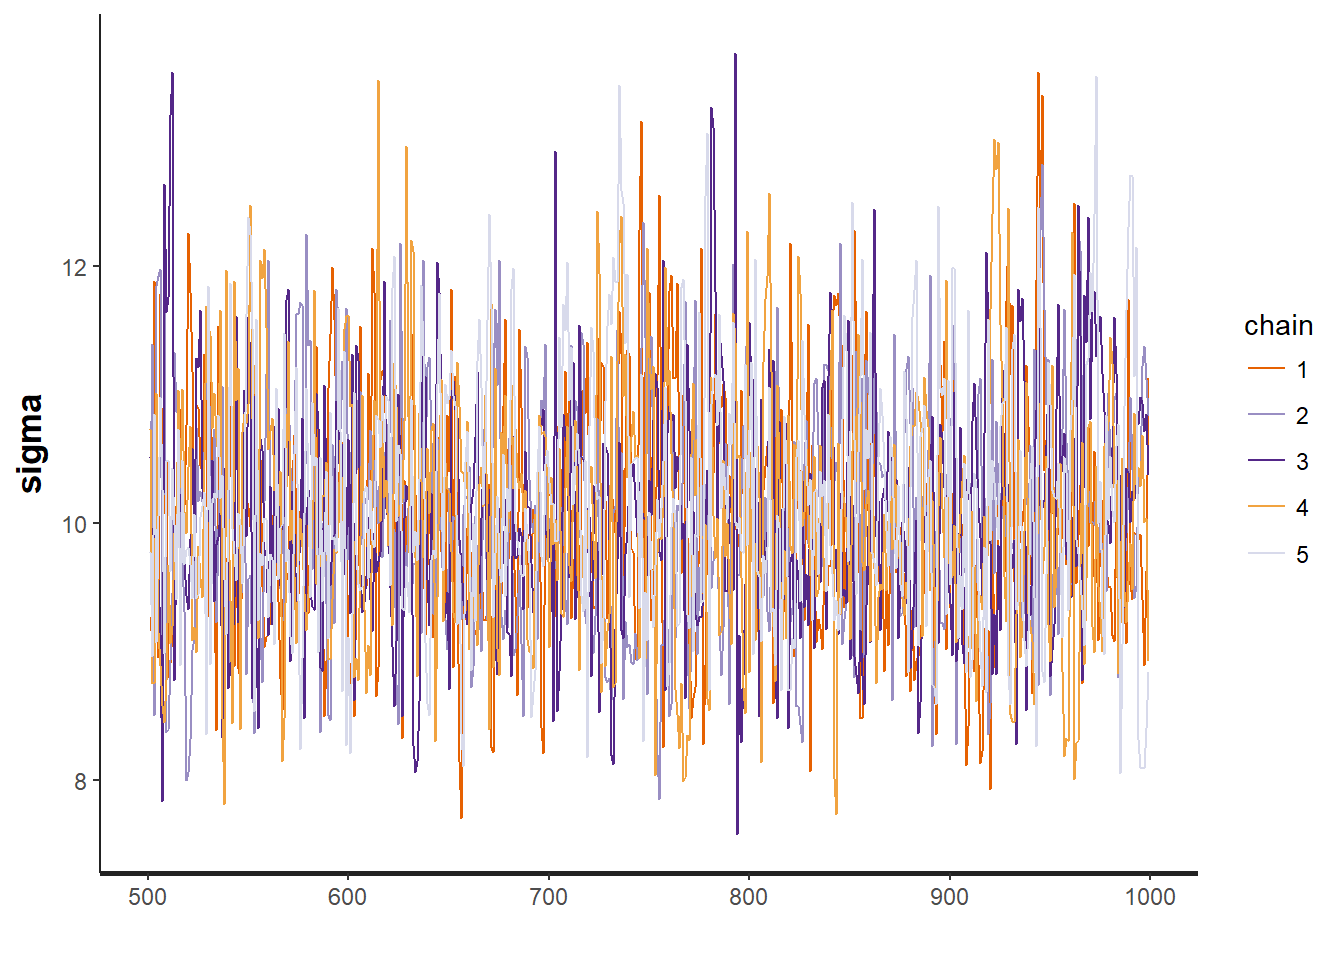
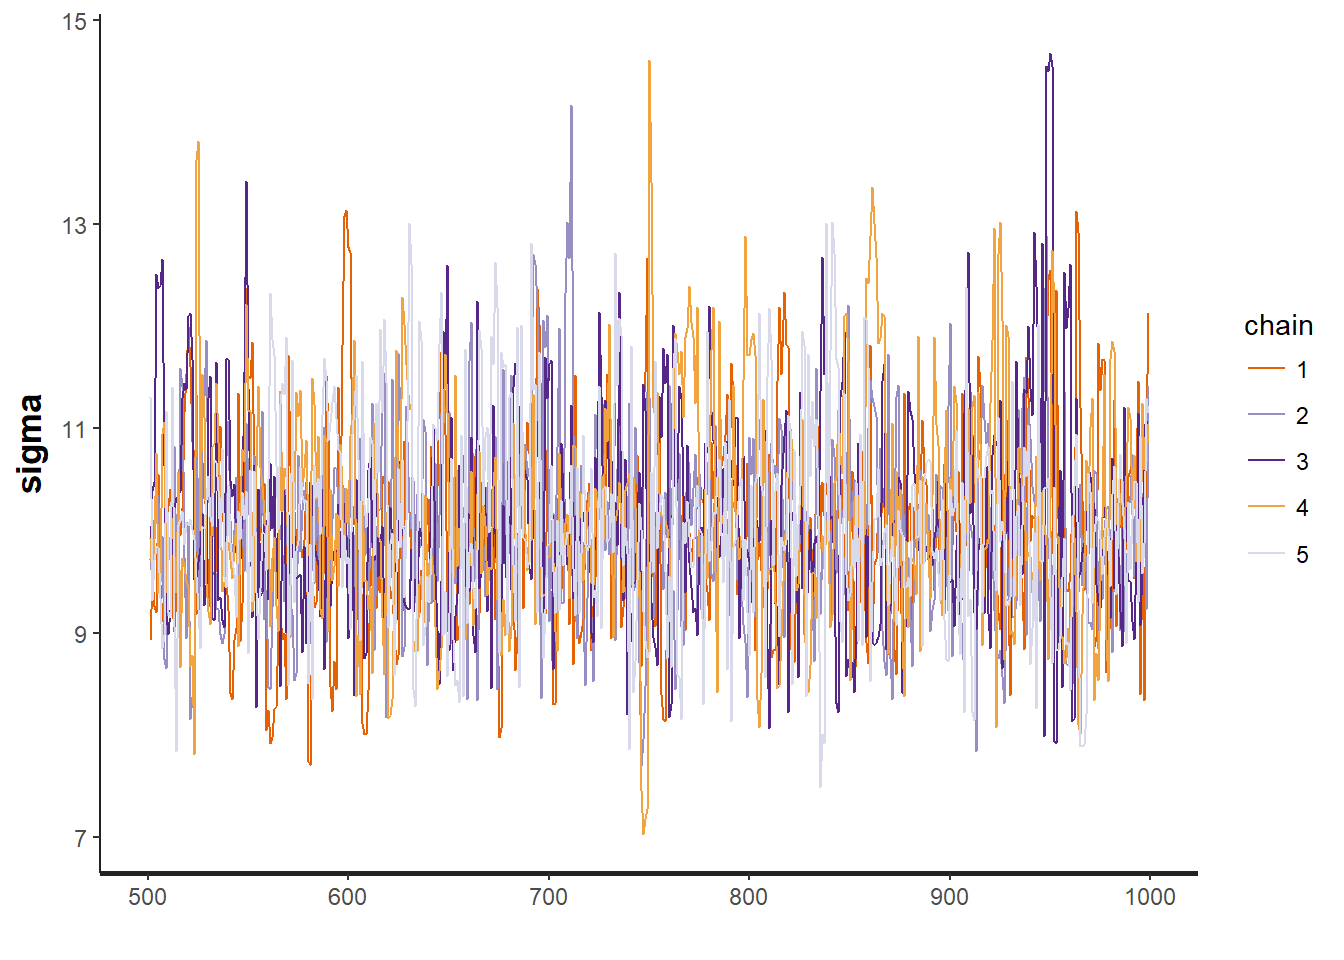
fixed typos in 05-B

diff --git a/05-B-Bayesian-priors.html b/05-B-Bayesian-priors.html
@@ -737,7 +737,7 @@ Loyn &lt;-<span class="st"> </span><span class="kw">read.table</span>(<span clas
 <h5>Parameter: Intercept and slope (<span class="math inline">\(\hat{\beta_k}\)</span>)</h5>
 <p>Unfortunately, I’m not that familiar with the “bird density and altitude” literature, so I don’t know what an optimal prior should look like. However, it is reasonable to assume that the intercept and the slope parameters can range from negative to positive values and that values near the endpoints (moving towards <span class="math inline">\(-\infty\)</span> and <span class="math inline">\(\infty\)</span>) are less common. As mentioned in the book, a standard weakly informative prior for a <span class="math inline">\(\beta_k\)</span> parameter is a normal distribution with a mean at about 0 and a standard deviation of about 5, so <span class="math inline">\(Norm(\mu = 10, \sigma = 5)\)</span>.</p>
 <div class="sourceCode"><pre class="sourceCode r"><code class="sourceCode r"><span class="co"># Probability density function of the intercept and slope prior</span>
-xseq &lt;-<span class="st"> </span><span class="kw">seq</span>(<span class="op">-</span><span class="dv">15</span>, <span class="dv">15</span>, <span class="fl">0.001</span>)
+xseq &lt;-<span class="st"> </span><span class="kw">seq</span>(-<span class="dv">15</span>, <span class="dv">15</span>, <span class="fl">0.001</span>)
 <span class="kw">plot</span>(xseq, <span class="kw">dnorm</span>(xseq, <span class="dv">0</span>, <span class="dv">5</span>), <span class="dt">type=</span><span class="st">&quot;l&quot;</span>, <span class="dt">xlab=</span><span class="st">&quot;&quot;</span>, <span class="dt">ylab=</span><span class="st">&quot;&quot;</span>, <span class="dt">yaxt=</span><span class="st">&quot;n&quot;</span>, <span class="dt">main=</span><span class="st">&quot;Intercept and slope parameter prior&quot;</span>)</code></pre></div>
 <p><img src="images/05-B/unnamed-chunk-3-1.png" width="672" /></p>
 </div>
@@ -745,7 +745,7 @@ xseq &lt;-<span class="st"> </span><span class="kw">seq</span>(<span class="op">
 <h5>Parameter: Sigma (<span class="math inline">\(\hat{\sigma}\)</span> )</h5>
 <p>Choosing a prior for variance is tricky, especially without any previous knowledge about this particular bird-altitude system. We will thus use a standard weakly informative prior using a truncated Cauchy distribution with non-negative values (as described in the book).</p>
 <div class="sourceCode"><pre class="sourceCode r"><code class="sourceCode r"><span class="co"># Probability density function of the variance (or rather standard deviation, sigma)</span>
-xseq &lt;-<span class="st"> </span><span class="kw">seq</span>(<span class="op">-</span><span class="dv">15</span>, <span class="dv">15</span>, <span class="fl">0.001</span>)
+xseq &lt;-<span class="st"> </span><span class="kw">seq</span>(-<span class="dv">15</span>, <span class="dv">15</span>, <span class="fl">0.001</span>)
 <span class="kw">plot</span>(xseq, <span class="kw">dcauchy</span>(xseq, <span class="dt">location =</span> <span class="dv">0</span>, <span class="dt">scale =</span> <span class="dv">5</span>), <span class="dt">type=</span><span class="st">&quot;l&quot;</span>, <span class="dt">xlab=</span><span class="st">&quot;&quot;</span>, <span class="dt">ylab=</span><span class="st">&quot;&quot;</span>, <span class="dt">yaxt=</span><span class="st">&quot;n&quot;</span>, <span class="dt">main=</span><span class="st">&quot;Sigma parameter prior&quot;</span>, <span class="dt">xlim=</span><span class="kw">c</span>(<span class="fl">0.55</span>,<span class="dv">15</span>))</code></pre></div>
 <p><img src="images/05-B/unnamed-chunk-4-1.png" width="672" /></p>
 <p><br></p>
@@ -783,31 +783,31 @@ model {
 <span class="kw">library</span>(rstan)
 
 <span class="co"># Set working directory - modify as needed</span>
-<span class="kw">setwd</span>(<span class="st">&quot;~/Box Sync/Classes/BIO 202/Weekly Material/Week 5&quot;</span>)
+<span class="co">#setwd(&quot;~/Box Sync/Classes/BIO 202/Weekly Material/Week 5&quot;)</span>
 
 <span class="co"># Declare data for Stan</span>
-y &lt;-<span class="st"> </span>Loyn<span class="op">$</span>ABUND
-x &lt;-<span class="st"> </span>Loyn<span class="op">$</span>ALT
+y &lt;-<span class="st"> </span>Loyn$ABUND
+x &lt;-<span class="st"> </span>Loyn$ALT
 N &lt;-<span class="st"> </span><span class="kw">nrow</span>(Loyn)
 datax &lt;-<span class="st"> </span><span class="kw">list</span>(<span class="st">&quot;N&quot;</span>, <span class="st">&quot;x&quot;</span>, <span class="st">&quot;y&quot;</span>)
 
 <span class="co"># Run Stan</span>
-mod &lt;-<span class="st"> </span><span class="kw">stan</span>(<span class="dt">file =</span> <span class="st">&quot;Code/mcmc.stan&quot;</span>, <span class="dt">data=</span>datax, <span class="dt">chains=</span><span class="dv">5</span>, <span class="dt">iter=</span><span class="dv">1000</span>)</code></pre></div>
+mod &lt;-<span class="st"> </span><span class="kw">stan</span>(<span class="dt">file =</span> <span class="st">&quot;code/05-B.stan&quot;</span>, <span class="dt">data=</span>datax, <span class="dt">chains=</span><span class="dv">5</span>, <span class="dt">iter=</span><span class="dv">1000</span>)</code></pre></div>
 <p><br></p>
 </div>
 <div id="step-6-mcmc-analysis" class="section level4">
 <h4>Step 6: MCMC analysis</h4>
 <div class="sourceCode"><pre class="sourceCode r"><code class="sourceCode r"><span class="kw">print</span>(mod, <span class="kw">c</span>(<span class="st">&quot;beta&quot;</span>, <span class="st">&quot;sigma&quot;</span>)) <span class="co"># Printing the MCMC output</span></code></pre></div>
-<pre><code>## Inference for Stan model: mcmc.
+<pre><code>## Inference for Stan model: 05-B.
 ## 5 chains, each with iter=1000; warmup=500; thin=1; 
 ## post-warmup draws per chain=500, total post-warmup draws=2500.
 ## 
 ##          mean se_mean   sd  2.5%  25%  50%   75% 97.5% n_eff Rhat
-## beta[1]  2.87    0.11 3.52 -4.03 0.48 2.92  5.30  9.58   939    1
-## beta[2]  0.11    0.00 0.02  0.07 0.10 0.11  0.13  0.16   941    1
-## sigma   10.05    0.03 0.95  8.39 9.38 9.95 10.65 12.10  1230    1
+## beta[1]  2.89    0.10 3.49 -4.16 0.66 2.86  5.24  9.69  1164    1
+## beta[2]  0.11    0.00 0.02  0.07 0.10 0.11  0.13  0.16  1191    1
+## sigma   10.09    0.03 1.02  8.31 9.40 9.97 10.67 12.33  1145    1
 ## 
-## Samples were drawn using NUTS(diag_e) at Wed Oct 25 09:03:41 2017.
+## Samples were drawn using NUTS(diag_e) at Wed Oct 25 09:16:01 2017.
 ## For each parameter, n_eff is a crude measure of effective sample size,
 ## and Rhat is the potential scale reduction factor on split chains (at 
 ## convergence, Rhat=1).</code></pre>
@@ -833,13 +833,13 @@ mcmcData &lt;-<span class="st"> </span><span class="kw">ggs</span>(mod)
 ##  $ Iteration: num  1 2 3 4 5 6 7 8 9 10 ...
 ##  $ Chain    : int  1 1 1 1 1 1 1 1 1 1 ...
 ##  $ Parameter: Factor w/ 3 levels &quot;beta[1]&quot;,&quot;beta[2]&quot;,..: 1 1 1 1 1 1 1 1 1 1 ...
-##  $ value    : num  -1.771 -0.151 0.317 4.506 0.357 ...
+##  $ value    : num  8.22 4.08 -1.93 -2.52 7.46 ...
 ##  - attr(*, &quot;nChains&quot;)= int 5
 ##  - attr(*, &quot;nParameters&quot;)= int 3
 ##  - attr(*, &quot;nIterations&quot;)= num 500
 ##  - attr(*, &quot;nBurnin&quot;)= num 500
 ##  - attr(*, &quot;nThin&quot;)= num 1
-##  - attr(*, &quot;description&quot;)= chr &quot;mcmc&quot;</code></pre>
+##  - attr(*, &quot;description&quot;)= chr &quot;05-B&quot;</code></pre>
 <div class="sourceCode"><pre class="sourceCode r"><code class="sourceCode r"><span class="kw">ggs_histogram</span>(mcmcData)</code></pre></div>
 <p><img src="images/05-B/unnamed-chunk-9-1.png" width="672" /></p>
 <div class="sourceCode"><pre class="sourceCode r"><code class="sourceCode r"><span class="kw">ggs_density</span>(mcmcData)</code></pre></div>
@@ -857,26 +857,26 @@ mcmcData &lt;-<span class="st"> </span><span class="kw">ggs</span>(mod)
 <h4>Step 7: Extracting MCMC results and testing for parameter correlations</h4>
 <p>If parameters are correlated then MCMC can fail as explained in the Key Points section.</p>
 <div class="sourceCode"><pre class="sourceCode r"><code class="sourceCode r"><span class="co"># Extracting our parameters from the MCMC output and save it as a new data frame</span>
-modSims &lt;-<span class="st"> </span>rstan<span class="op">::</span><span class="kw">extract</span>(mod) 
+modSims &lt;-<span class="st"> </span>rstan::<span class="kw">extract</span>(mod) 
 
 <span class="kw">str</span>(modSims)</code></pre></div>
 <pre><code>## List of 3
-##  $ beta : num [1:2500, 1:2] 7.19 6.85 4.79 4.29 5.2 ...
+##  $ beta : num [1:2500, 1:2] 3.85 5.36 1.6 7.47 4.21 ...
 ##   ..- attr(*, &quot;dimnames&quot;)=List of 2
 ##   .. ..$ iterations: NULL
 ##   .. ..$           : NULL
-##  $ sigma: num [1:2500(1d)] 9.46 9.11 9.52 9.28 10.18 ...
+##  $ sigma: num [1:2500(1d)] 11.76 9.53 9.93 9.6 11.46 ...
 ##   ..- attr(*, &quot;dimnames&quot;)=List of 1
 ##   .. ..$ iterations: NULL
-##  $ lp__ : num [1:2500(1d)] -157 -157 -156 -158 -156 ...
+##  $ lp__ : num [1:2500(1d)] -157 -156 -156 -157 -158 ...
 ##   ..- attr(*, &quot;dimnames&quot;)=List of 1
 ##   .. ..$ iterations: NULL</code></pre>
 <div class="sourceCode"><pre class="sourceCode r"><code class="sourceCode r"><span class="co"># Scatter plots of parameters to look for correlations</span>
-<span class="kw">plot</span>(modSims<span class="op">$</span>beta[,<span class="dv">1</span>], modSims<span class="op">$</span>beta[,<span class="dv">2</span>], <span class="dt">xlab=</span><span class="st">&quot;beta_0&quot;</span>, <span class="dt">ylab=</span><span class="st">&quot;beta_1&quot;</span>)</code></pre></div>
+<span class="kw">plot</span>(modSims$beta[,<span class="dv">1</span>], modSims$beta[,<span class="dv">2</span>], <span class="dt">xlab=</span><span class="st">&quot;beta_0&quot;</span>, <span class="dt">ylab=</span><span class="st">&quot;beta_1&quot;</span>)</code></pre></div>
 <p><img src="images/05-B/unnamed-chunk-15-1.png" width="672" /></p>
-<div class="sourceCode"><pre class="sourceCode r"><code class="sourceCode r"><span class="kw">plot</span>(modSims<span class="op">$</span>beta[,<span class="dv">1</span>], modSims<span class="op">$</span>sigma, <span class="dt">xlab=</span><span class="st">&quot;beta_0&quot;</span>, <span class="dt">ylab=</span><span class="st">&quot;sigma&quot;</span>)</code></pre></div>
+<div class="sourceCode"><pre class="sourceCode r"><code class="sourceCode r"><span class="kw">plot</span>(modSims$beta[,<span class="dv">1</span>], modSims$sigma, <span class="dt">xlab=</span><span class="st">&quot;beta_0&quot;</span>, <span class="dt">ylab=</span><span class="st">&quot;sigma&quot;</span>)</code></pre></div>
 <p><img src="images/05-B/unnamed-chunk-15-2.png" width="672" /></p>
-<div class="sourceCode"><pre class="sourceCode r"><code class="sourceCode r"><span class="kw">plot</span>(modSims<span class="op">$</span>beta[,<span class="dv">2</span>], modSims<span class="op">$</span>sigma, <span class="dt">xlab=</span><span class="st">&quot;beta_1&quot;</span>, <span class="dt">ylab=</span><span class="st">&quot;sigma&quot;</span>)</code></pre></div>
+<div class="sourceCode"><pre class="sourceCode r"><code class="sourceCode r"><span class="kw">plot</span>(modSims$beta[,<span class="dv">2</span>], modSims$sigma, <span class="dt">xlab=</span><span class="st">&quot;beta_1&quot;</span>, <span class="dt">ylab=</span><span class="st">&quot;sigma&quot;</span>)</code></pre></div>
 <p><img src="images/05-B/unnamed-chunk-15-3.png" width="672" /></p>
 <p>There seems to be correlation between the intercept parameter <span class="math inline">\(\beta_0\)</span> and the slope parameter <span class="math inline">\(\beta_1\)</span>, which actually makes sense. This might explain why it took about 500 iterations to convergence on a joint posterior distribution for the parameters. Thankfully, the <span class="math inline">\(\sigma\)</span> parameter does not correlate with any of the other parameters.</p>
 <p>Normally, we would perform a prior sensitity analysis to see whether the posterior distributions are influenced by the defined prior distributions and maybe modify our priors accordingly until we are fully satisfied with our model (and repeating steps 1-7).</p>
@@ -885,30 +885,30 @@ modSims &lt;-<span class="st"> </span>rstan<span class="op">::</span><span class
 <div id="step-8-inferences" class="section level4">
 <h4>Step 8: Inferences</h4>
 <p>Now that we have our joint posterior distribution <span class="math inline">\(p(\theta | y)\)</span> we can perform Bayesian inference much like in the previous seminar session (based on similar code).</p>
-<div class="sourceCode"><pre class="sourceCode r"><code class="sourceCode r">newData &lt;-<span class="st"> </span><span class="kw">data.frame</span>(<span class="dt">x=</span><span class="kw">seq</span>(<span class="kw">min</span>(Loyn<span class="op">$</span>ALT), <span class="kw">max</span>(Loyn<span class="op">$</span>ALT), <span class="dt">by=</span><span class="fl">0.1</span>)) 
+<div class="sourceCode"><pre class="sourceCode r"><code class="sourceCode r">newData &lt;-<span class="st"> </span><span class="kw">data.frame</span>(<span class="dt">x=</span><span class="kw">seq</span>(<span class="kw">min</span>(Loyn$ALT), <span class="kw">max</span>(Loyn$ALT), <span class="dt">by=</span><span class="fl">0.1</span>)) 
 
-newMatrix &lt;-<span class="st"> </span><span class="kw">model.matrix</span>(<span class="op">~</span>x, newData)
+newMatrix &lt;-<span class="st"> </span><span class="kw">model.matrix</span>(~x, newData)
 
-b &lt;-<span class="st"> </span><span class="kw">apply</span>(modSims<span class="op">$</span>beta, <span class="dv">2</span>, mean)
-newData<span class="op">$</span>mod &lt;-<span class="st"> </span>newMatrix <span class="op">%*%</span><span class="st"> </span>b
-nsim &lt;-<span class="st"> </span><span class="kw">nrow</span>(modSims<span class="op">$</span>beta)
+b &lt;-<span class="st"> </span><span class="kw">apply</span>(modSims$beta, <span class="dv">2</span>, mean)
+newData$mod &lt;-<span class="st"> </span>newMatrix %*%<span class="st"> </span>b
+nsim &lt;-<span class="st"> </span><span class="kw">nrow</span>(modSims$beta)
 
 fitmat &lt;-<span class="st"> </span><span class="kw">matrix</span>(<span class="dt">ncol=</span>nsim, <span class="dt">nrow=</span><span class="kw">nrow</span>(newData)) 
-<span class="cf">for</span>(i <span class="cf">in</span> <span class="dv">1</span><span class="op">:</span>nsim){
-  fitmat[,i] &lt;-<span class="st"> </span>newMatrix <span class="op">%*%</span><span class="st"> </span>modSims<span class="op">$</span>beta[i,] 
+for(i in <span class="dv">1</span>:nsim){
+  fitmat[,i] &lt;-<span class="st"> </span>newMatrix %*%<span class="st"> </span>modSims$beta[i,] 
 }
 
 <span class="co"># 95% CrI lines</span>
-newData<span class="op">$</span>fitupper &lt;-<span class="st"> </span><span class="kw">apply</span>(fitmat, <span class="dv">1</span>, quantile, <span class="dt">prob=</span><span class="fl">0.975</span>)
-newData<span class="op">$</span>fitlower &lt;-<span class="st"> </span><span class="kw">apply</span>(fitmat, <span class="dv">1</span>, quantile, <span class="dt">prob=</span><span class="fl">0.025</span>) 
+newData$fitupper &lt;-<span class="st"> </span><span class="kw">apply</span>(fitmat, <span class="dv">1</span>, quantile, <span class="dt">prob=</span><span class="fl">0.975</span>)
+newData$fitlower &lt;-<span class="st"> </span><span class="kw">apply</span>(fitmat, <span class="dv">1</span>, quantile, <span class="dt">prob=</span><span class="fl">0.025</span>) 
 
 <span class="co"># Linear regression</span>
-linearModel &lt;-<span class="st"> </span><span class="kw">lm</span>(ABUND <span class="op">~</span><span class="st"> </span>ALT, Loyn) 
+linearModel &lt;-<span class="st"> </span><span class="kw">lm</span>(ABUND ~<span class="st"> </span>ALT, Loyn) 
 
-<span class="kw">plot</span>(Loyn<span class="op">$</span>ALT,Loyn<span class="op">$</span>ABUND, <span class="dt">pch=</span><span class="dv">16</span>, <span class="dt">las=</span><span class="dv">1</span>, <span class="dt">cex.lab=</span><span class="fl">1.2</span>, <span class="dt">xlab=</span><span class="st">&quot;Mean altitude of a patch&quot;</span>, <span class="dt">ylab=</span><span class="st">&quot;Density of birds in a patch&quot;</span>)
+<span class="kw">plot</span>(Loyn$ALT,Loyn$ABUND, <span class="dt">pch=</span><span class="dv">16</span>, <span class="dt">las=</span><span class="dv">1</span>, <span class="dt">cex.lab=</span><span class="fl">1.2</span>, <span class="dt">xlab=</span><span class="st">&quot;Mean altitude of a patch&quot;</span>, <span class="dt">ylab=</span><span class="st">&quot;Density of birds in a patch&quot;</span>)
 <span class="kw">abline</span>(linearModel, <span class="dt">lw=</span><span class="dv">2</span>) <span class="co"># Linear regression line</span>
-<span class="kw">lines</span>(newData<span class="op">$</span>x, newData<span class="op">$</span>fitupper, <span class="dt">lty=</span><span class="dv">3</span>)
-<span class="kw">lines</span>(newData<span class="op">$</span>x, newData<span class="op">$</span>fitlower, <span class="dt">lty=</span><span class="dv">3</span>) </code></pre></div>
+<span class="kw">lines</span>(newData$x, newData$fitupper, <span class="dt">lty=</span><span class="dv">3</span>)
+<span class="kw">lines</span>(newData$x, newData$fitlower, <span class="dt">lty=</span><span class="dv">3</span>) </code></pre></div>
 <p><img src="images/05-B/unnamed-chunk-16-1.png" width="672" /></p>
 <p>The regression line (solid) is supposed to act as a reference for the 95% CrI (dashed lines) obtained with prior information when comparing it with the CrI obtained with uniform priors in the previous seminar. The results using non-uniform priors differ only slightly, as expected.</p>
 </div>
